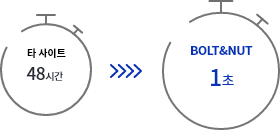
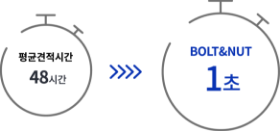
기능추가 : 스케쥴, 리퀘스트, 배너 수정

diff --git a/containers/Request/Step4.js b/containers/Request/Step4.js
@@ -19,6 +19,8 @@ class Step4Container extends Component {
     display2: true, // display2 는 TimeBox 기준.
     current: null, // FoldedComponent에 넣을 현재 상태(오전 11:00 등)
     inactive_array: [],
+    userEmail: null,
+    isOnline: 0,
   }
   checkboxChange = (e) => {
     console.log(e) // 에러피하기용 임시
@@ -48,10 +50,37 @@ class Step4Container extends Component {
   }
   timeActiveToggle = (time) => {
     const { Schedule } = this.props;
-    if (Schedule.inactive_today.includes(time)) {
+    let nowTime = new moment();
+    // console.log(time.split(' ')[1]);  ==> 10:00 과 같음.
+    console.log(time.split(' ')[1]);
+    if (Schedule.inactive_today.includes(time.split(' ')[1])) {
       return true
     } else {
-      return false
+      if (nowTime.format("HH") > time.split(' ')[1].split(":")[0]) {
+        if (nowTime.format("DD") == time.split(' ')[0].split('-')[2]) {
+          console.log(nowTime.format("DD HH"))
+        }
+      }
+    }
+  }
+  // 스케쥴 생성
+  createSchedule = () => {
+    const { Schedule, Request } = this.props;
+    let req = {
+      request: 1824,
+      email: this.state.userEmail,
+      isOnline: this.state.isOnline
+    }
+    Schedule.submitSchedule(req);
+  }
+  // 대면, 비대면 선택
+  isOnlineHandler = (e) => {
+    let targetWord = e.target.innerHTML;
+    // 대면이면 0, 화상이면 1
+    if (targetWord == "화상 미팅") {
+      this.setState({...this.state, isOnline: 1}) 
+    } else {
+      this.setState({...this.state, isOnline: 0})
     }
   }
   render() {
@@ -115,7 +144,7 @@ class Step4Container extends Component {
             <TimeBox style={{marginBottom: 30}}>
               {timeArr.slice(0,2).map((data) => {
                   return (
-                    <TimeComponent deactive={this.timeActiveToggle(data.start_at.split(' ')[1])} onClick={(event) => this.setTime(event, data.start_at)}>
+                    <TimeComponent deactive={this.timeActiveToggle(data.start_at)} onClick={(event) => this.setTime(event, data.start_at)}>
                       {data.start_at.split(' ')[1]}
                     </TimeComponent>
                   )
@@ -127,7 +156,7 @@ class Step4Container extends Component {
             <TimeBox style={{marginBottom: 60}}>
                 {timeArr.slice(2,).map((data) => {
                   return (
-                    <TimeComponent deactive={this.timeActiveToggle(data.start_at.split(' ')[1])} onClick = {(event) => this.setTime(event, data.start_at)}>
+                    <TimeComponent deactive={this.timeActiveToggle(data.start_at)} onClick = {(event) => this.setTime(event, data.start_at)}>
                       {data.start_at.split(' ')[1]}
                     </TimeComponent>
                   )
@@ -135,11 +164,19 @@ class Step4Container extends Component {
             </TimeBox>
           </div>
           <Title>
-            장소
+            컨설팅 유형
           </Title>
-          <SubContent>
-            서울특별시 성북구 고려대로 27길 4, 3층 볼트앤너트
-          </SubContent>
+          <div style={{display: 'inline-flex', marginTop: 9}}>
+            <TimeComponent onClick = {this.isOnlineHandler}>
+              방문 미팅
+            </TimeComponent>
+            <TimeComponent onClick = {this.isOnlineHandler}>
+              화상 미팅
+            </TimeComponent>
+          </div>
+          <Tail>
+            * 서울특별시 성북구 고려대로 27길 4, 3층 볼트앤너트
+          </Tail>
           { !Request.has_email && (
           <>
             <Title style={{marginTop: 30}}>
@@ -161,7 +198,7 @@ class Step4Container extends Component {
             onChange={this.checkboxChange}>
             이용약관 및 개인정보 처리방침에 동의합니다.
           </CheckBoxComponent>
-          <CustomButton>
+          <CustomButton onClick={this.createSchedule}>
             무료 컨설팅 받기
           </CustomButton>
         </CardFooter>
@@ -258,6 +295,7 @@ const TimeComponent = styled.div`
 `
 const Tail = styled(Content.FontSize14)`
   font-weight: 500;
+  height: 24px;
   font-stretch: normal;
   font-style: normal;
   line-height: 1.86;

diff --git a/containers/Home/Mobile/MobileBanner1.js b/containers/Home/Mobile/MobileBanner1.js
@@ -5,6 +5,8 @@ import * as Title from 'components/Title';
 import styled from 'styled-components';
 import Fade from 'react-reveal/Fade';
 import { inject, observer } from "mobx-react";
+
+const MobileBanner1Img = 'static/images/Home/Mobile/MobileBanner1/MobileBanner1Img.png';
 @inject('Proposal','Partner')
 @observer
 class MobileBanner1Container extends React.Component {
@@ -17,7 +19,7 @@ class MobileBanner1Container extends React.Component {
               <Head>자동 견적 알고리즘</Head>
               <Main><span>1초만에</span> 내 제품<br/>가견적 받기</Main>
               <ImageContainer>
-                <img src={"/static/images/Home/Mobile/MobileBanner1/MobileBanner1Img.png"}/>
+                <img src={MobileBanner1Img}/>
               </ImageContainer>
               <Content>{ProjectCount*3+997}건의 데이터에 기반한 자동견적 알고리즘이<br/>평균 2일의 견적 시간을 한 번에 해결해 드립니다.</Content>
             </Fade>

diff --git a/containers/Request/RequestCard.js b/containers/Request/RequestCard.js
@@ -148,8 +148,6 @@ class RequestCardContainer extends Component {
           DetailQuestion.nextPage=null;
           DetailQuestion.SelectChecked='';
 
-
-          console.log(Request.titleData);
           DetailQuestion.loadSelectFromTitle(DetailQuestion.index);
         }
         else {
@@ -163,7 +161,7 @@ class RequestCardContainer extends Component {
             ManufactureProcessFormData.append("process",ManufactureProcess.SelectedItem.process);
             ManufactureProcessFormData.append("detailProcess",ManufactureProcess.SelectedItem.id);
             //기본정보입력에서 받은 의뢰서로 바꾸기
-            ManufactureProcessFormData.append("request",360);
+            ManufactureProcessFormData.append("request",Request.created_request);
             ManufactureProcessApi.saveSelect(ManufactureProcessFormData);
             Request.titleData= Request.titleData.slice(0,3);
           }

diff --git a/containers/Home/Banner1.js b/containers/Home/Banner1.js
@@ -6,6 +6,8 @@ import styled from 'styled-components';
 import Fade from 'react-reveal/Fade';
 import { inject, observer } from "mobx-react";
 
+const BannerImg = "static/images/Home/Banner1/Banner1_img.png";
+
 @inject('Proposal','Partner')
 @observer
 class Banner1Container extends React.Component {
@@ -18,13 +20,7 @@ class Banner1Container extends React.Component {
             <Image>
               <ImageContainer>
                 <div>
-                  <img src={ "/static/images/Home/Banner1/48시간.png" }/>
-                </div>
-                <div>
-                  <img style={{margin: '0px 52px 0px 45px'}} src={ "/static/images/Home/Banner1/next.png" }/>
-                </div>
-                <div>
-                  <img src={ "/static/images/Home/Banner1/1초.png" }/>
+                  <img src={BannerImg} />
                 </div>
               </ImageContainer>
             </Image>

diff --git a/containers/Request/Step2.js b/containers/Request/Step2.js
@@ -15,9 +15,13 @@ const fileImage = 'static/images/components/Input2/Mask.png';
 class Step2Container extends React.Component {
   onChangeFile = (e,data,idx) => {
     const {Request}  = this.props;
+    let fileNameAvailable = ['stl', 'stp'];
     let fileName;
     if (e.currentTarget.files[0]) {
-      console.log(e.currentTarget.files[0])
+      if (!fileNameAvailable.includes(e.currentTarget.files[0].name.split('.')[e.currentTarget.files.length])) {
+        console.log(e.currentTarget.files[0].name.split('.')[e.currentTarget.files.length])
+        return alert("파일 확장자명 (stl, stp만 가능) 을 확인해주세요.")
+      }
       fileName = e.currentTarget.files[0].name;
       Request.setDrawFile(e.currentTarget.files[0]);
       DetailQuestion.SelectChecked = idx;

diff --git a/stores/Request.js b/stores/Request.js
@@ -58,7 +58,7 @@ class Request {
   @observable common_file = null; // 첨부 파일
 
   //new
-  @observable step_index = 1;
+  @observable step_index = 4;
   @observable step1_index = 1;
   @observable drawFile = null;
   @observable percentage = 0;
@@ -77,7 +77,7 @@ class Request {
   @action reset = () => {
     this.titleData = [];
     this.percentage = 0;
-    this.step_index = 1;
+    this.step_index = 4;
     this.step1_index = 1;
     this.input_name = "";
     this.input_phone = "";
@@ -128,8 +128,6 @@ class Request {
       alert('전화번호가 올바르지 않습니다. 재확인해주세요.')
       return;
     }
-
-
     var formData = new FormData();
 
     formData.append("product", 45);

diff --git a/stores/Schedule.js b/stores/Schedule.js
@@ -59,8 +59,8 @@ class Schedule {
             "isOnline": data.isOnline
         }
         ScheduleAPI.postSchedule(req).then((res) => {
-            console.log(res);
-        }).catch(error => console.log(error));
+            alert(`${this.book_time} 부터 1시간동안의 미팅이 예약되었습니다.`);
+        }).catch(error => alert("미팅이 생성되지 않았습니다. 시간을 다시 확인해주세요. 또는 담당자에게 문의해주세요."));
     }
 
     @action fullDateCheck = (startAt, endAt) => {
